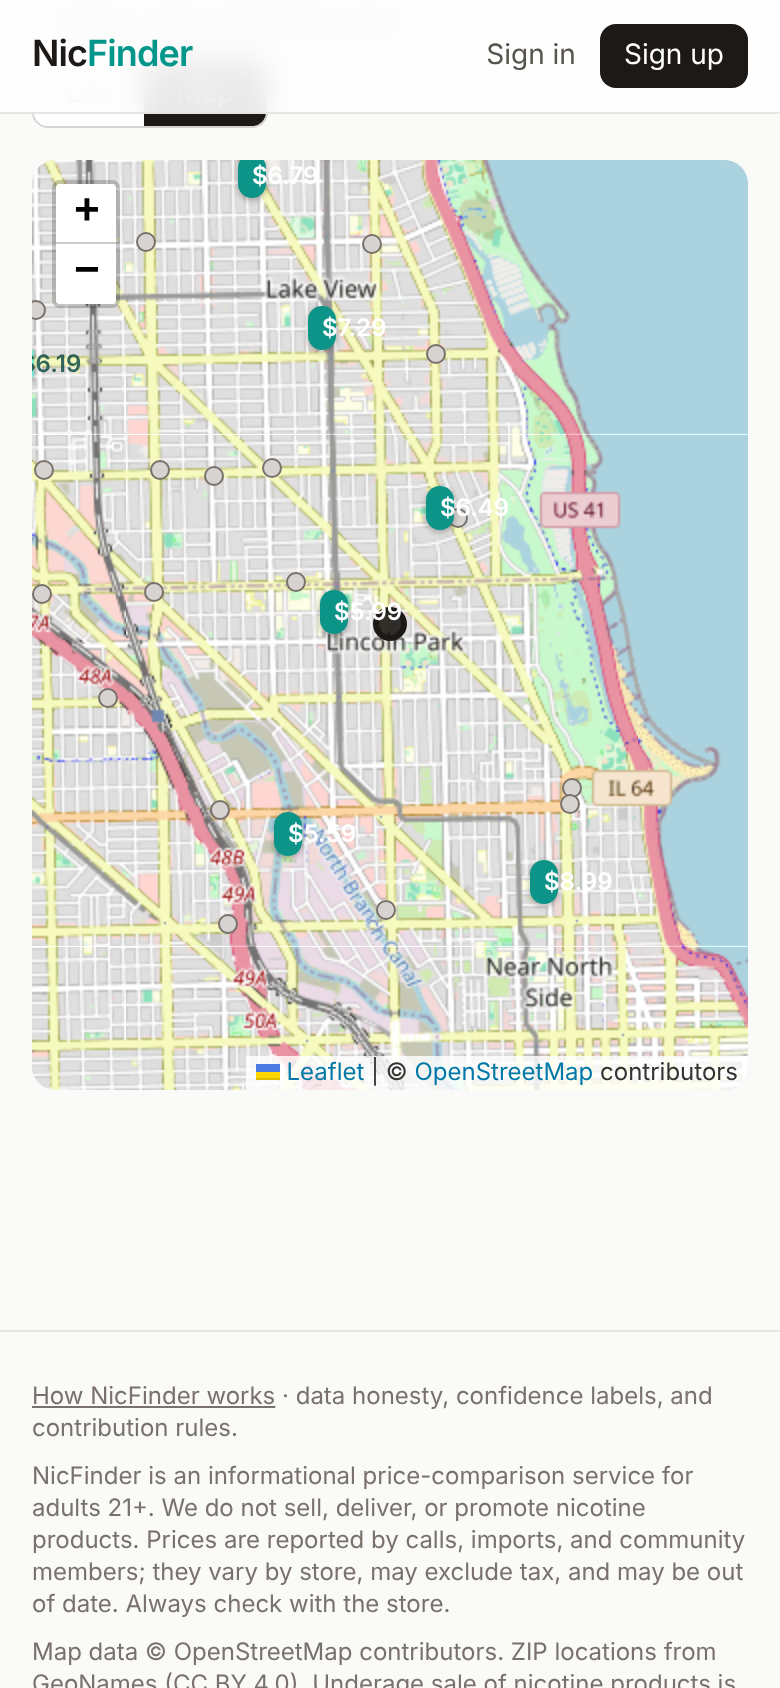
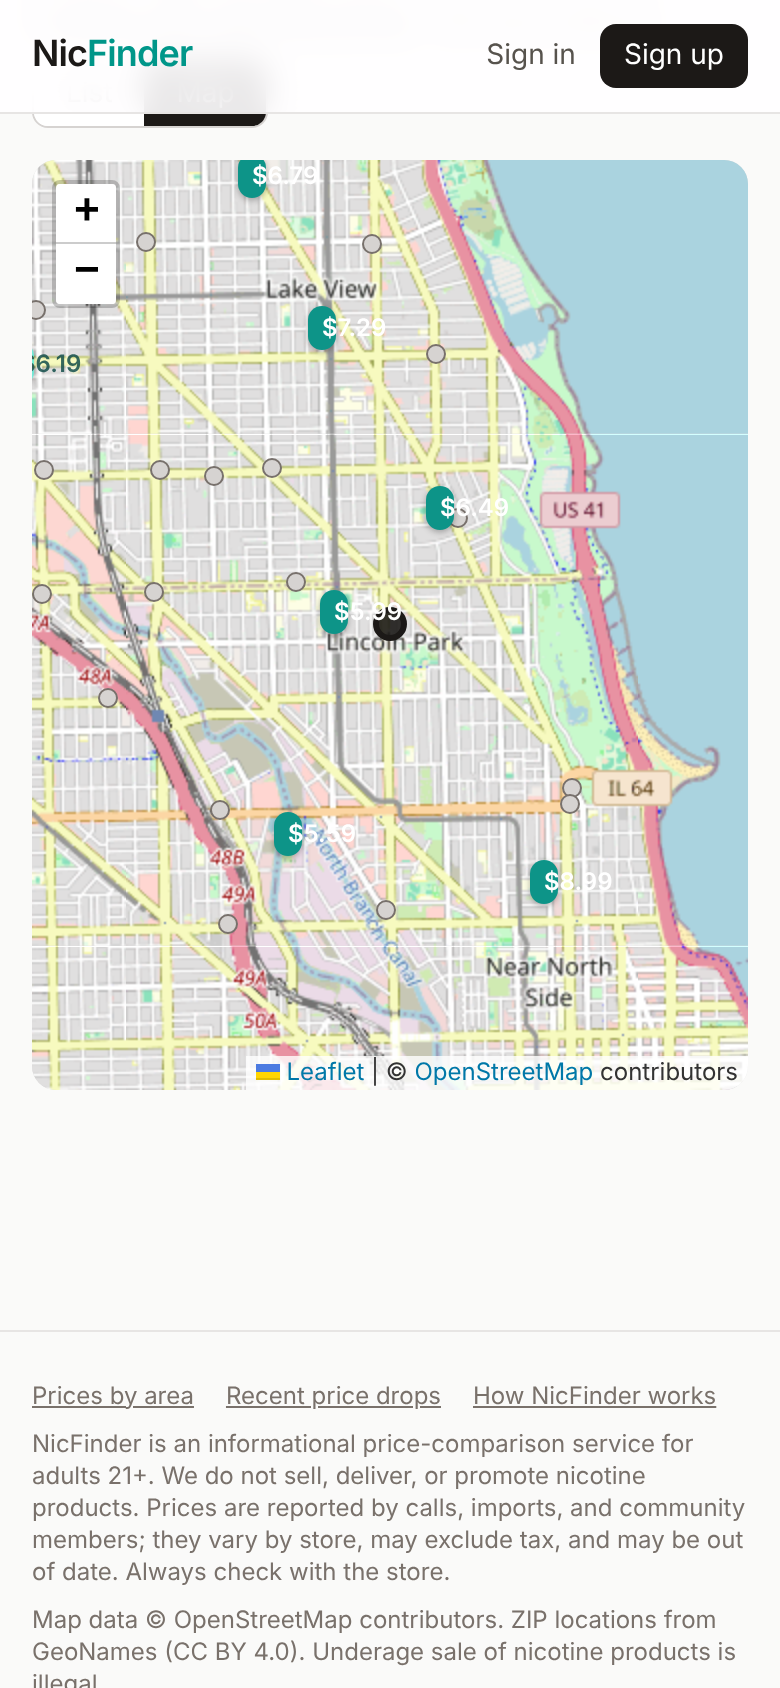
Footer site nav (areas/price-drops/about) + tour refresh on pristine seed
Claude-Session: https://claude.ai/code/session_01SbNFTUkLm3CA1UNFpGqaQW

Changed region(s): [[0.0308, 0.8009, 0.9538, 1.0]]

diff --git a/src/app/layout.tsx b/src/app/layout.tsx
@@ -110,12 +110,17 @@ export default async function RootLayout({
         <main id="main" className="mx-auto max-w-5xl px-4 pb-16">{children}</main>
         <footer className="border-t border-stone-200 dark:border-stone-800 mt-8">
           <div className="mx-auto max-w-5xl px-4 py-6 text-xs text-stone-500 space-y-2">
-            <p>
+            <nav className="flex flex-wrap gap-x-4 gap-y-1" aria-label="Site">
+              <Link href="/zyn-prices" className="underline hover:text-stone-700 dark:hover:text-stone-300">
+                Prices by area
+              </Link>
+              <Link href="/price-drops" className="underline hover:text-stone-700 dark:hover:text-stone-300">
+                Recent price drops
+              </Link>
               <Link href="/about" className="underline hover:text-stone-700 dark:hover:text-stone-300">
                 How NicFinder works
-              </Link>{" "}
-              · data honesty, confidence labels, and contribution rules.
-            </p>
+              </Link>
+            </nav>
             <p>
               NicFinder is an informational price-comparison service for adults
               21+. We do not sell, deliver, or promote nicotine products.
